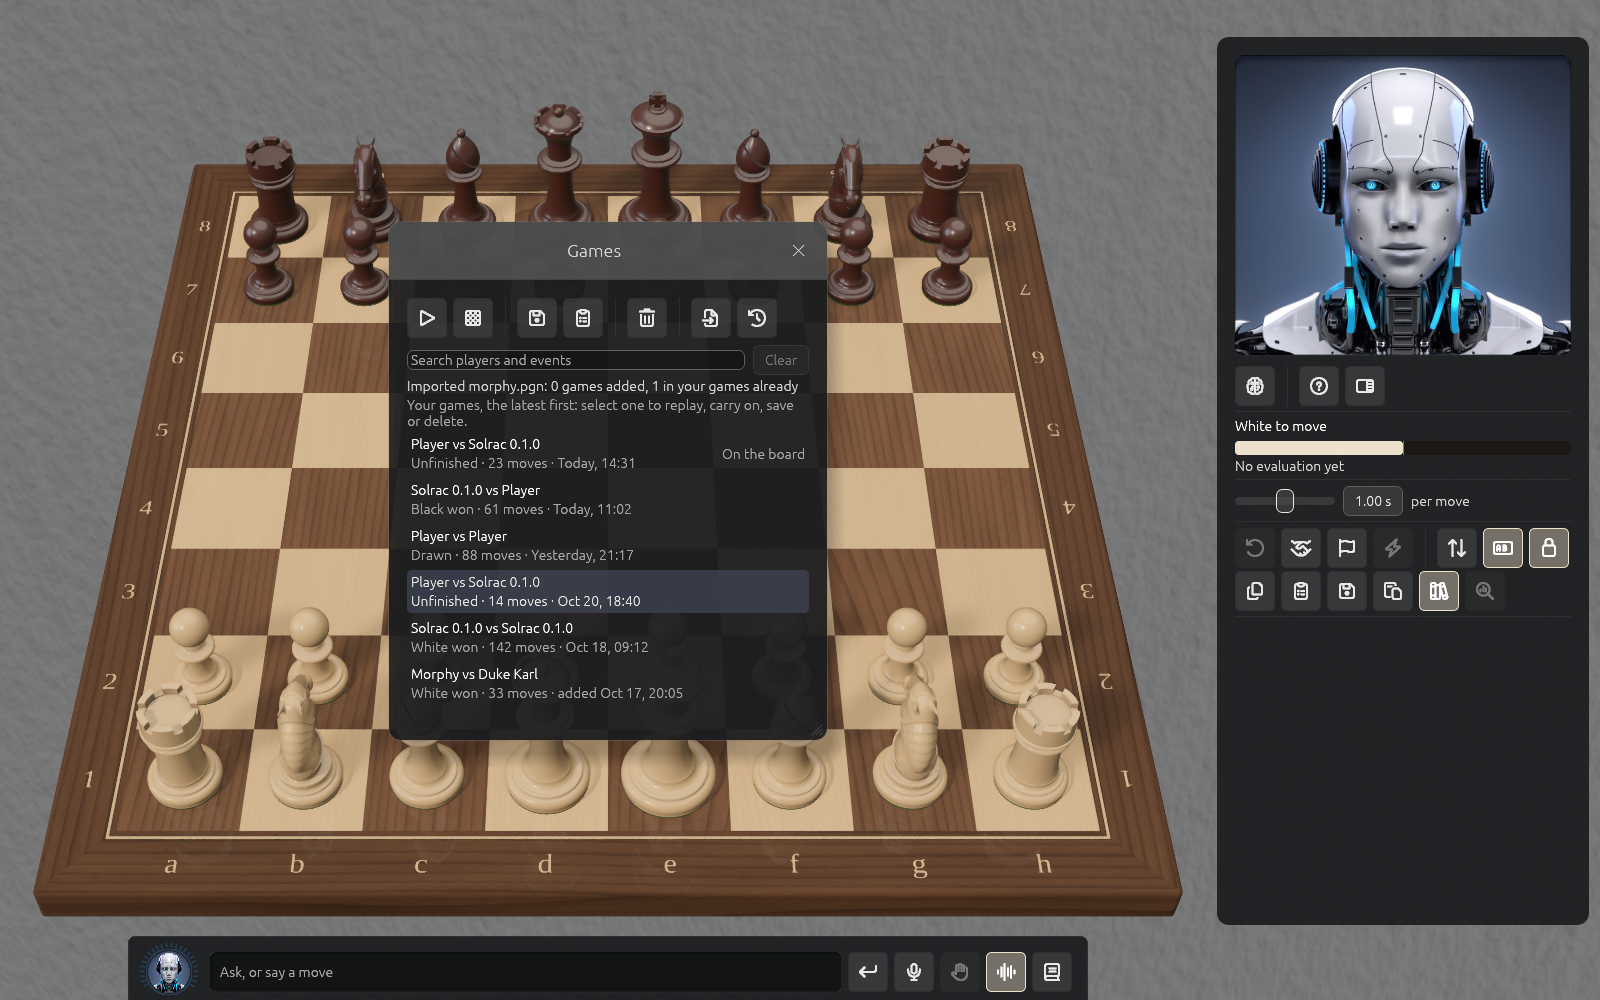
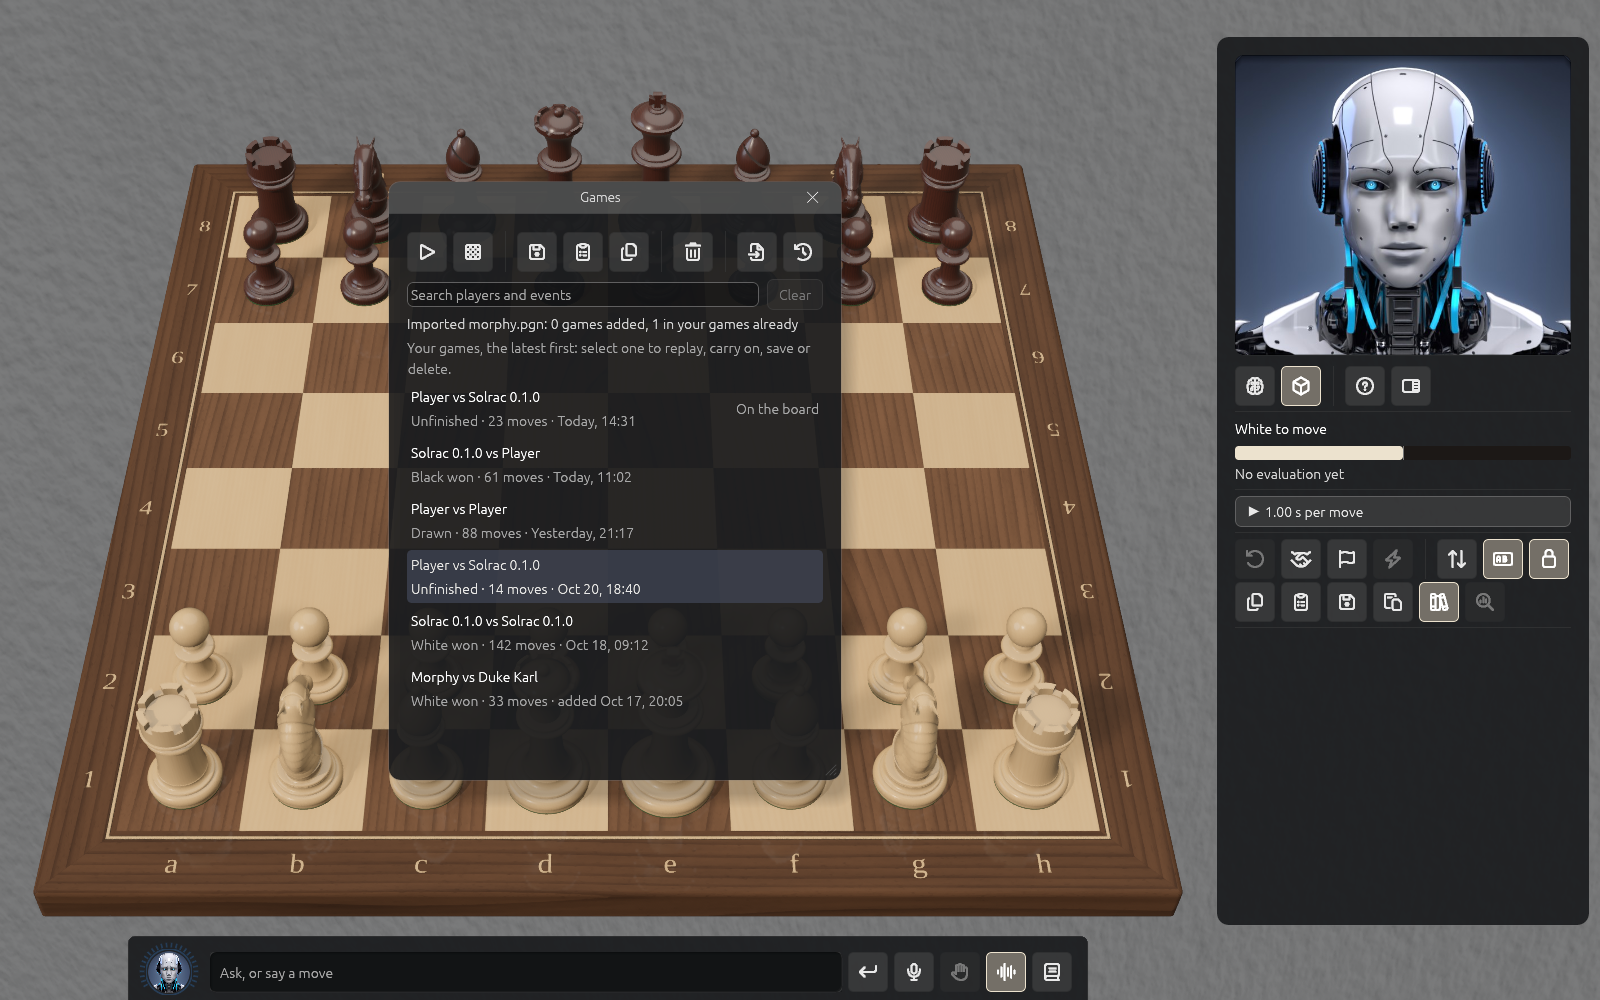
Games window: Copy FEN beside Copy PGN; the iPad keeps the full Lights page (chessgui #790)

Changed region(s): [[0.2188, 0.155, 0.5312, 0.806], [0.75, 0.372, 1.0, 0.62], [0.1562, 0.961, 0.1875, 0.992]]

diff --git a/book/src/games.md b/book/src/games.md
@@ -45,10 +45,13 @@ Click a game to select it, then use the buttons along the top:
 2. **Carry on** plays on from where an unfinished game was left, with who plays each side and the
    clock's times.
 3. **Save PGN** writes it to the Solrac folder in your Documents folder, as above.
-4. **Copy PGN** puts it on the clipboard.
-5. **Delete** removes it after asking again: **Delete** or **Keep**. It can't be undone.
-6. **Import** brings in the games of a PGN file.
-7. **Backups** opens the Backups window, described below.
+4. **Copy PGN** puts the whole game on the clipboard, ready to paste into an email, a forum or
+   another chess program.
+5. **Copy FEN** puts the position the game ends at on the clipboard, in FEN, the one line most
+   chess programs and sites read to set up a position.
+6. **Delete** removes it after asking again: **Delete** or **Keep**. It can't be undone.
+7. **Import** brings in the games of a PGN file.
+8. **Backups** opens the Backups window, described below.
 
 Hover a button that is greyed out to see why.
 

diff --git a/book/src/getting-started.md b/book/src/getting-started.md
@@ -88,8 +88,7 @@ paint. Some of the deep study tools are only in Solrac for Mac, the full study w
 - **Editing a game in Analyse**: comments, symbols and variations. On an iPad, **Replay** steps
   through a finished game and shows a review's marks and better lines.
 - **Importing PGN files.** Copying and sharing a game's PGN or FEN works on both.
-- **Playing on another computer**, the Backups window and the light's sliders. On an iPad,
-  **Settings → Lights** has presets.
+- **Playing on another computer**, and the Backups window.
 
 To see what Solrac for Mac adds, visit solrac-chess.com.
 

diff --git a/book/src/preferences.md b/book/src/preferences.md
@@ -170,8 +170,7 @@ and the room's highlights in the board's lacquer, and **Reflection** (0 to 200 %
 is how much the board mirrors the pieces, where 100 % is what real lacquer reflects. Under
 **Pieces**, **Clearcoat** (0 to 100 %, 100 % to start) is the glossy shine on the pieces.
 **Reset** puts the light back as it starts. You can also ask Solrac in the chat to change the
-lights. On an iPad, **Lighting** has four presets in place of the sliders: **Studio** (as
-Solrac starts), **Daylight**, **Soft** and **Evening**.
+lights.
 
 ## Sounds
 
